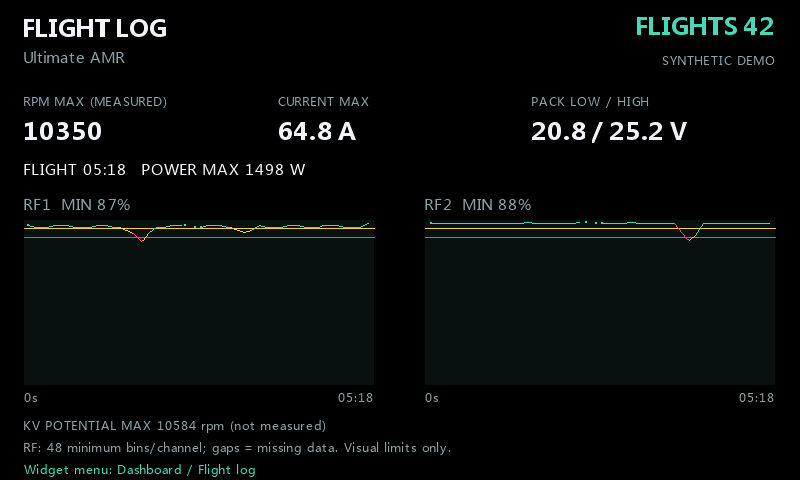
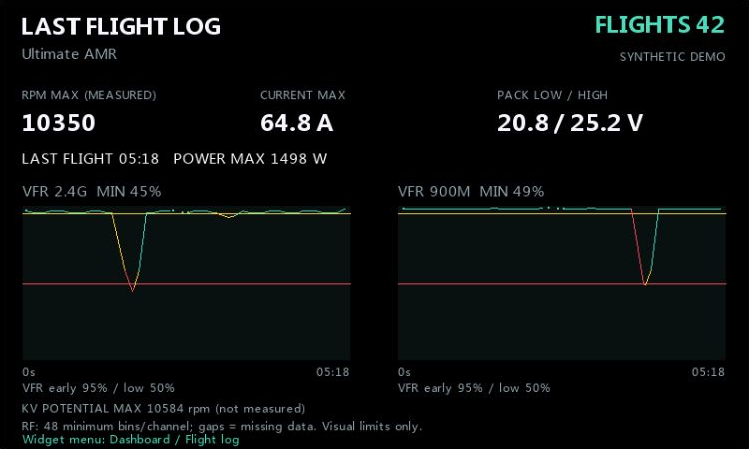
Publish RF profiles and pack-session example images

diff --git a/docs/images/README.md b/docs/images/README.md
@@ -1,10 +1,28 @@
 # VoltDeck example images
 
+Documentation for release 2026.8-v2. The owner separately confirmed physical
+X20RS/model testing passed on 2026-10-02; these images remain synthetic.
+
 These PNGs are native ETHOS 26.1.2 simulator renders with synthetic values.
 They illustrate the widget's presentation, not recorded flights or audio tests.
 The updated RF screenshots feed 180 synthetic history points through the
-bounded 48-bin renderer. Other dashboard screenshots remain unchanged.
+bounded 48-bin renderer. Dashboard screenshots are refreshed for source-named RF fields and correct
+inactive units. RSSI graphs illustrate ACCST 45/42 dB; VFR graphs illustrate
+the widget visual 95% early / 50% low profile, not modified native alarms.
+Diagnostic screens use actual ETHOS none/always-on selections with synthetic
+arm, throttle and pack data, not recorded flights.
 The example counter of 42 is fabricated and is not saved as a real counter.
+
+The four pack-transition images were captured from production flight callbacks
+with synthetic controls/telemetry in the native ETHOS runtime. They show a
+paused first session, its retained last log, a new qualifying candidate and
+a second qualified session. Their private counter (1 then 2) stays in RAM
+and does not exercise real counter-file persistence or represent real flights.
+
+The refreshed full-widget captures are 749 x 449 pixels: the displayed
+simulator canvas was cropped without resizing or changing its contents.
+rf-inactive-units.png is a 749 x 110 crop of that canvas header; its missing
+readings are synthetic. The other existing examples retain their original size.
 
 See [the illustrated guide](../Configuration.md) and
 [the Norwegian guide](../Konfigurasjon-norsk.md) for settings and limitations.
